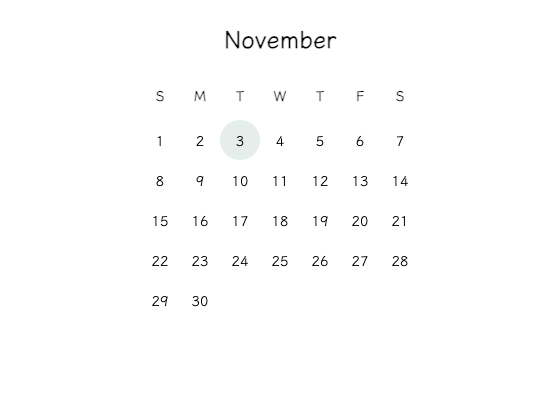
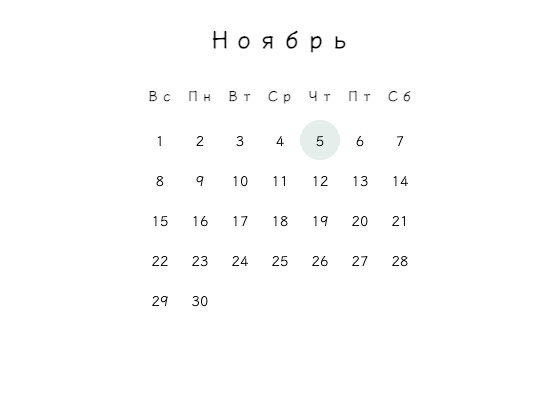
Add optional Russian labels to community calendar

diff --git a/docs/community/httishere-calendar/calendar.html b/docs/community/httishere-calendar/calendar.html
@@ -159,9 +159,16 @@
 <script type="text/javascript">
   const params = getAllParams();
   handleDarkMode(params);
+  const russian = /^ru(?:-|$)/i.test(params.lang || "");
+  document.documentElement.lang = russian ? "ru" : "en";
   let days = [0, 31, 28, 31, 30, 31, 30, 31, 31, 30, 31, 30, 31];
-  const week_day_en = ["S", "M", "T", "W", "T", "F", "S"];
-  const months = [
+  const week_day_en = russian
+    ? ["Вс", "Пн", "Вт", "Ср", "Чт", "Пт", "Сб"]
+    : ["S", "M", "T", "W", "T", "F", "S"];
+  const months = russian ? [
+    " ", "Январь", "Февраль", "Март", "Апрель", "Май", "Июнь",
+    "Июль", "Август", "Сентябрь", "Октябрь", "Ноябрь", "Декабрь",
+  ] : [
     " ",
     "January",
     "February",

diff --git a/docs/catalog/README.md b/docs/catalog/README.md
@@ -280,7 +280,7 @@ https://zhangleiye68-jpg.github.io/buildin-reference-widgets/?view=med-calendar&
 
 目录 ID：`widget-010`
 
-### 简洁月历 · 通用
+### 简洁月历 · 俄语／英语
 
 ![简洁月历默认预览](previews/widget-011.png)
 
@@ -288,12 +288,12 @@ https://zhangleiye68-jpg.github.io/buildin-reference-widgets/?view=med-calendar&
 
 简洁月历
 
-[打开组件或素材](https://zhangleiye68-jpg.github.io/buildin-reference-widgets/community/httishere-calendar/calendar.html?sw=1&dd=0) · [原始来源](https://github.com/httIsHere/notion-widget) · [源码](https://github.com/zhangleiye68-jpg/buildin-reference-widgets/tree/main/docs/community/httishere-calendar/)
+[打开组件或素材](https://zhangleiye68-jpg.github.io/buildin-reference-widgets/community/httishere-calendar/calendar.html?sw=1&dd=0&lang=ru) · [原始来源](https://github.com/httIsHere/notion-widget) · [源码](https://github.com/zhangleiye68-jpg/buildin-reference-widgets/tree/main/docs/community/httishere-calendar/)
 
 嵌入／素材地址：
 
 ```text
-https://zhangleiye68-jpg.github.io/buildin-reference-widgets/community/httishere-calendar/calendar.html?sw=1&dd=0
+https://zhangleiye68-jpg.github.io/buildin-reference-widgets/community/httishere-calendar/calendar.html?sw=1&dd=0&lang=ru
 ```
 
 - 社区源码已收录并保留归属、许可；使用本地简化运行脚本。
@@ -301,6 +301,7 @@ https://zhangleiye68-jpg.github.io/buildin-reference-widgets/community/httishere
 - 不支持上游加密配置参数。
 - Gitee v3/v4 month 旧地址已返回404；这些别名仅作来源追踪，使用本条目的固定GitHub Pages地址。旧sw参数继续决定周日起始，省略为周一起始。
 - 窄栏嵌入可加fit=1，自适应当前宽度（建议至少170px）；默认不加参数时保持原280px布局。
+- 可选lang=ru只翻译月份与星期；保留fit、周起始顺序和深色模式。省略语言参数时仍为英语。
 
 许可：Apache-2.0；字体 SIL OFL · [许可与归属](https://github.com/zhangleiye68-jpg/buildin-reference-widgets/blob/main/docs/community/httishere-calendar/NOTICE.md)
 

diff --git a/docs/community/httishere-calendar/NOTICE.md b/docs/community/httishere-calendar/NOTICE.md
@@ -6,4 +6,6 @@ The calendar HTML is distributed under the upstream Apache License 2.0; see `LIC
 
 Local changes: replace the global runtime and CryptoJS script dependencies with a small local compatibility script for plain `sw`, `dd`, and `black` query parameters. The upstream encrypted-configuration feature and global promotional UI are not included. The calendar's rendering, fixed 280-pixel width, month display, and date highlighting remain as upstream.
 
+Optional `lang=ru` adds Russian month and weekday labels. Omitting it retains the original English labels. The existing `fit`, `sw`, `dd`, and `black` behavior is preserved. The Russian labels are a local adaptation, not an upstream feature.
+
 This entry is provided for reuse and comparison. For narrow columns and month navigation, prefer the self-authored Cozy calendar in `../../cozy-study/`.

diff --git a/README.md b/README.md
@@ -37,6 +37,7 @@
 ## 源码与来源
 
 自制组件的源码和静态资源保留在 `docs/`；已有其他 GitHub 仓库中的自制组件通过目录中的源码链接统一定位。社区月历已收录在 [community/httishere-calendar](docs/community/httishere-calendar/)，保留 Apache-2.0 与字体许可，并说明本地改动。
+简洁月历现可添加 `lang=ru` 显示俄语月份和星期；原有英语默认、窄栏适配、主题及周起始参数继续可用。
 第三方服务若没有确认再分发许可，收录的是嵌入入口、来源和界面参考，不复制服务实现、音乐文件或私人模板数据。各条目单独标注许可与依赖，不把整个仓库统一宣称为同一种开源许可。
 
 ## 维护

diff --git a/docs/community/httishere-calendar/README.md b/docs/community/httishere-calendar/README.md
@@ -1,0 +1,13 @@
+# 简洁月历
+
+复用 httIsHere / Tina Huang 的 Apache-2.0 月历，保留原有日期高亮和两种周起始顺序。
+
+- 俄语：`calendar.html?sw=1&dd=0&lang=ru`
+- 英语：`calendar.html?sw=1&dd=0`；省略 `lang` 时行为不变。
+- `sw=1` 从周日开始；省略 `sw` 从周一开始。
+- `dd=1` 或 `black=true` 使用深色模式。
+- `fit=1` 在窄容器中按原有规则缩放。
+
+日历使用浏览器当前本地日期，不连接 Buildin 数据库。语言只影响月份和星期标签，不改变日期、周起始顺序、尺寸或主题。
+
+来源、修改说明及字体许可见 [NOTICE.md](NOTICE.md)。
